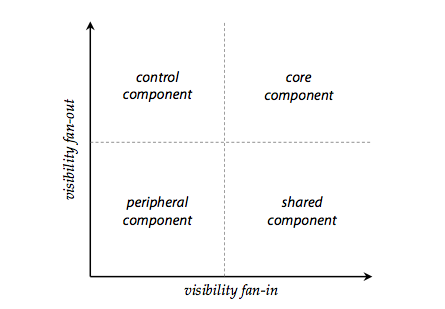
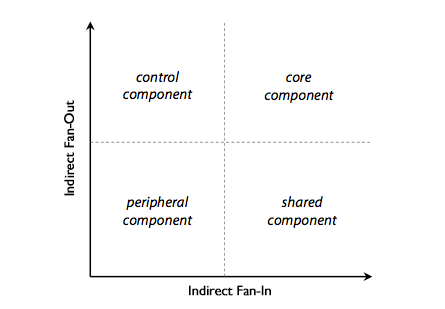
Updated some of the charts

Changed region(s): [[0.409, 0.9029, 0.6427, 0.9612], [0.1169, 0.3204, 0.1753, 0.6408]]

diff --git a/prose/index.htm b/prose/index.htm
@@ -43,7 +43,7 @@
 				<div style="position:absolute;margin-top:20px;height:40px"></div>
 				<h1>How maintainable is the Firefox codebase?</h1>
 				<h2>ALI ALMOSSAWI</h2>
-				<div class="date">May 9, 2013</div>
+				<div class="date">May 13, 2013</div>
 				
 <br /><br /><br />
 <p>Look at this joyful man.</p>
@@ -225,8 +225,13 @@ The exploratory tool's source-code as well as the data described herein are avai
 </table>
 <p class="caption">Table 2: Descriptive statistics for the set of Firefox modules (n=70)</p>
 <p>Full details are available in the spreadsheet <a href="https://docs.google.com/spreadsheet/ccc?key=0Ai_gYoOkxENIdHJUT0M3YXNzdVVYUXRkQzBWellHamc#gid=3">here</a> and the .json file <a href="http://almossawi.com/firefox/data/architectural.json">here</a>.</p>
-<p>Modules are a bit more nuanced since we generally want most of the interaction between files to happen within modules rather than between them.  For simplicity, we consider a module to be a system, which allows us to continue using the same measures of goodness discussed earlier.  Hence, a module that has a higher density of dependencies is considered to be less maintainable than one with a lower density.  This only gives partial insight into a module's architecture, and begs the question: Well, how do the number and density of internal calls compare with the number and density of external ones?  That question is part of the motivation for the third, currently in-progress, view on the <a href="../">Evolution of the Firefox Codebase</a> page<sup>3</sup>.</p>
-<p class="footy"><sup>3</sup> ಠ_ಠ</p>
+<p>Modules are a bit more nuanced since we generally want most of the interaction between files to happen within modules rather than between them.  For simplicity, we consider a module to be a system, which allows us to continue using the same measures of goodness discussed earlier.  Hence, a module that has a higher density of dependencies is considered to be less maintainable than one with a lower density.  This only gives partial insight into a module's architecture, and begs the question: Well, how do the number and density of internal calls compare with the number and density of external ones?  That question is part of the motivation for the third, currently in-progress, view on the <a href="../">Evolution of the Firefox Codebase</a> page.</p>
+<p>The distribution of files' fan-in and fan-out shows two distinct trends.  For direct fan-in and fan-out, we see a long tail indicating that the majority of files don't have that many inward and outward calls.  For indirect fan-in and fan-out, which as mentioned earlier, are used to classify a file into one of several types and consequently calculate the core size for a codebase, we see that files either don't have that many calls or have a high number of calls, as can be seen in the charts below.</p>
+
+<img src="images/vfi_vfo.png" style="width:698px"/>
+<p class="caption">Chart 1: Distribution of indirect fan-in and fan-out for the 12,822 files in Firefox v1.0.</p>
+
+<!--<p class="footy"><sup>3</sup> ಠ_ಠ</p>-->
 
 <p class="subtitle">2.2 Processing the data</p>
 <p>Processing the data involves the use of a set of tools and scripts. The general workflow is shown in the following diagram.</p>
@@ -353,7 +358,7 @@ The exploratory tool's source-code as well as the data described herein are avai
 <img src="images/coresize_modules_comparison.png" />
 
 <p class="subtitle">4 Take-away</p>
-<p>It is impressive that an open-source project developed and maintained by a distributed team of paid staff and volunteers has been able to produce a product as impactful as the Firefox browser.  I have seen larger, more expensive, software projects become drastically less maintainable in only a few years by virtue of their development processes becoming more chaotic and coding best practices being abandoned in favor of premature pragmatism.  With Firefox, We see the decision to move to a tighter, more predictable, development process possibly helping to improve quality.</p>
+<p>It is impressive that an open-source project developed and maintained by a distributed team of paid staff and volunteers has been able to produce a product as impactful as the Firefox browser.  One sees larger, more expensive, software projects become drastically less maintainable in only a few years by virtue of their development processes becoming more chaotic and coding best practices being abandoned in favor of premature pragmatism.  With Firefox, We see the decision to move to a tighter, more predictable, development process possibly helping to improve quality.</p>
 <p>Firefox's core size is somewhat elevated indicating that highly interconnected files make up a sizable portion of the codebase.  Though the measure shows no signs of following an upward trend, that may quickly change should, say, any organizational dynamics change.  The changes in version 3.0 of the product that led to Firefox's core size increasing by over 35% may be worth looking into.  Having said that, the analysis reveals no imminently alarming red flags when it comes to maintainability.  A number of modules, namely, <i>accessible</i>, <i>browser</i> and <i>security</i>, frequently appear among the most complex modules.  Further investigation may be helpful in identifying why that is the case.</p>
 <p>A caveat worth mentioning in closing is that, as with any set of software metrics, the measures described herein only reveal part of the picture.  The chosen architectural measures make the assumption that directory structure reflects the logical hierarchy of modules within Firefox.  I have not looked into the extent to which this is the case.</p>
 
@@ -380,7 +385,7 @@ The exploratory tool's source-code as well as the data described herein are avai
 <p>[12] Almossawi, A., "An Empirical Study of Defects and Reopened Defects in GNOME." Unpublished, 2012.</p>
 
 <p style="border-top:1px solid #cccccc;margin-top:20px;padding-top:50px;padding-bottom:20px">Don't forget to check out the <a href="../">Evolution of the Firefox Codebase</a> page, which allows you to interactively explore the data described herein.  This work is being shared under a Creative Commons license <a href="http://creativecommons.org/licenses/by-nc/3.0/">(CC BY-NC)</a>.  To share your thoughts, feel free to <a href="https://twitter.com/alialmossawi">chat with me on Twitter</a>.</p>
-<p style="padding-bottom:0px;font-size:14px">ali@mozilla.com &nbsp;&middot;&nbsp; May 9, 2013<!-- &nbsp;&middot;&nbsp; <a href="http://twitter.com/alialmossawi">Follow me on Twitter</a>--></p>
+<p style="padding-bottom:0px;font-size:14px">ali@mozilla.com &nbsp;&middot;&nbsp; May 13, 2013<!-- &nbsp;&middot;&nbsp; <a href="http://twitter.com/alialmossawi">Follow me on Twitter</a>--></p>
 
 <div style="float:left;padding-bottom:20px">
 	<a href="https://twitter.com/alialmossawi" class="twitter-follow-button" data-show-count="false">Follow @alialmossawi</a>
